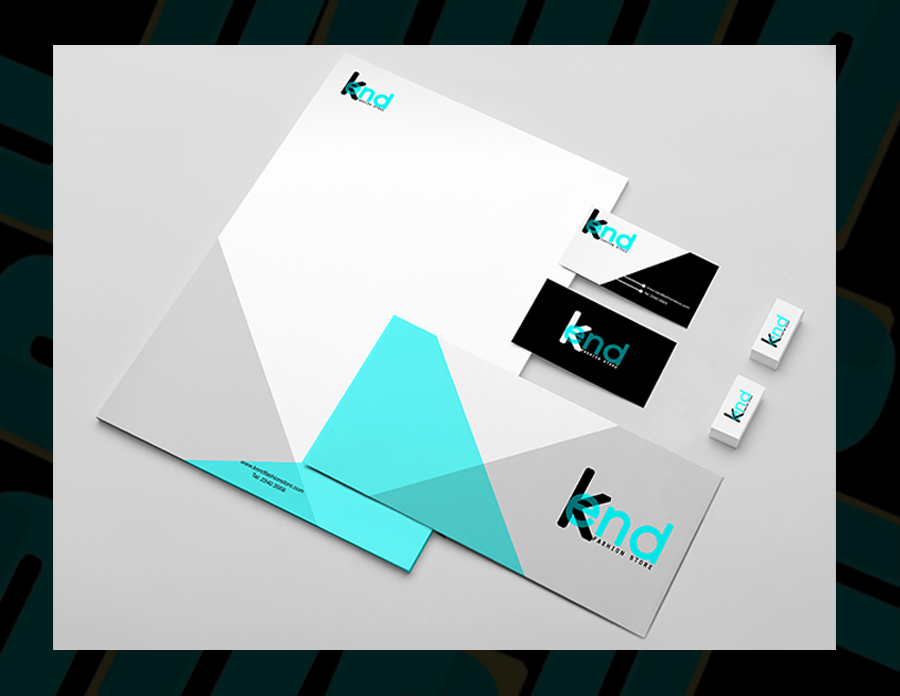
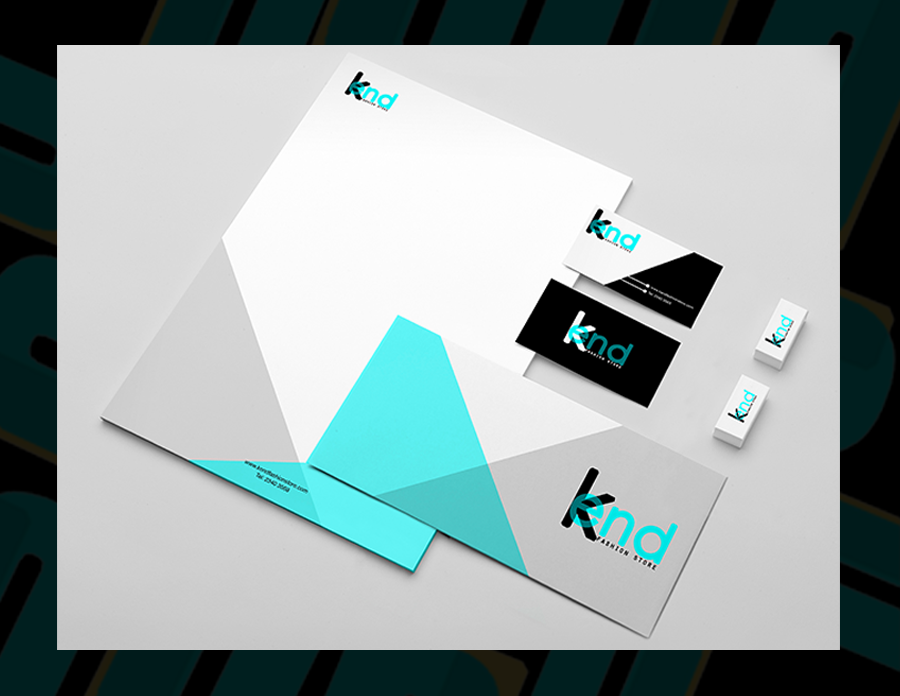
modificaciones

diff --git a/views/bea/Guiado-framework.html b/views/bea/Guiado-framework.html
@@ -103,7 +103,7 @@
 			<div class="container">
 					<div class="row">
 						<div class="col-lg-5">
-							<img src="../../img/beatriz_img/bran2.png" class="img-fluid">
+							<img src="../../img/beatriz_img/branding2.png" class="img-fluid">
 						</div>
 						<div class="col-lg-7">
 							<hr>
